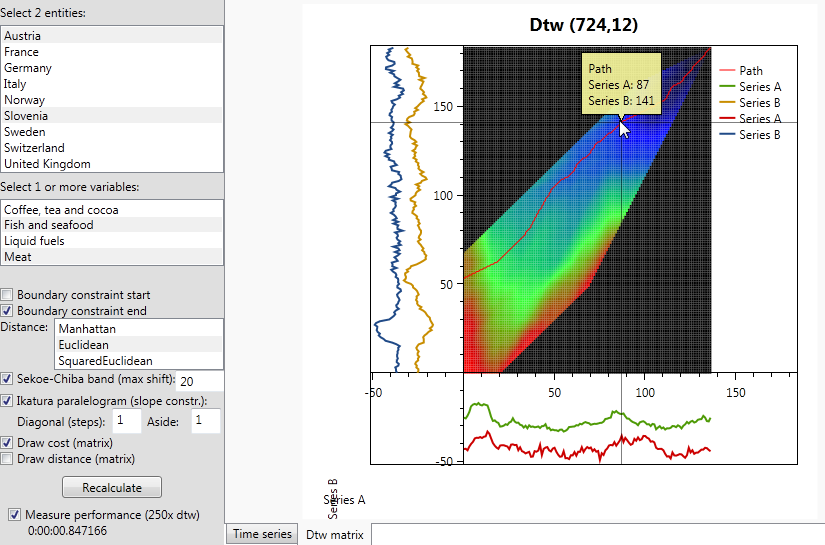
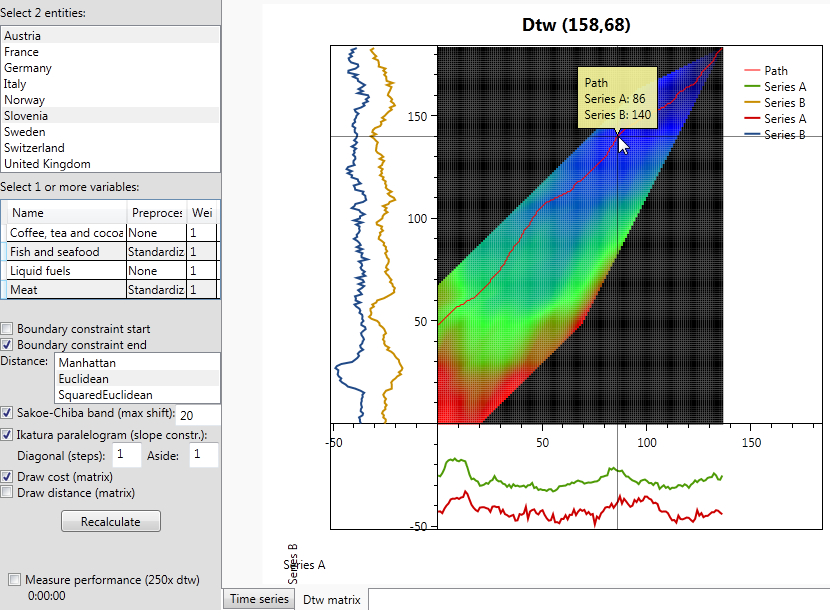
Screenshot update

Changed region(s): [[0.0, 0.0, 1.0, 1.0], [0.4545, 0.9358, 1.0, 0.967]]

diff --git a/NDtw.Examples/MainWindow.xaml b/NDtw.Examples/MainWindow.xaml
@@ -26,8 +26,8 @@
                 <DataGrid AutoGenerateColumns="False" ItemsSource="{Binding Variables}" CanUserAddRows="False" CanUserDeleteRows="False"
                           SelectionMode="Extended" multiselect:MultiSelectorBehaviours.SynchronizedSelectedItems="{Binding SelectedVariables}" >
                     <DataGrid.Columns>
-                        <DataGridTextColumn Binding="{Binding Name}" Header="Name" Width="80" IsReadOnly="True" />
-                        <DataGridTemplateColumn Header="Preprocessing" Width="70" >
+                        <DataGridTextColumn Binding="{Binding Name}" Header="Name" Width="120" IsReadOnly="True" />
+                        <DataGridTemplateColumn Header="Preprocessing" Width="60" >
                             <DataGridTemplateColumn.CellTemplate>
                                 <DataTemplate>
                                     <Label Content="{Binding Preprocessor}" Padding="0" Margin="0" />
